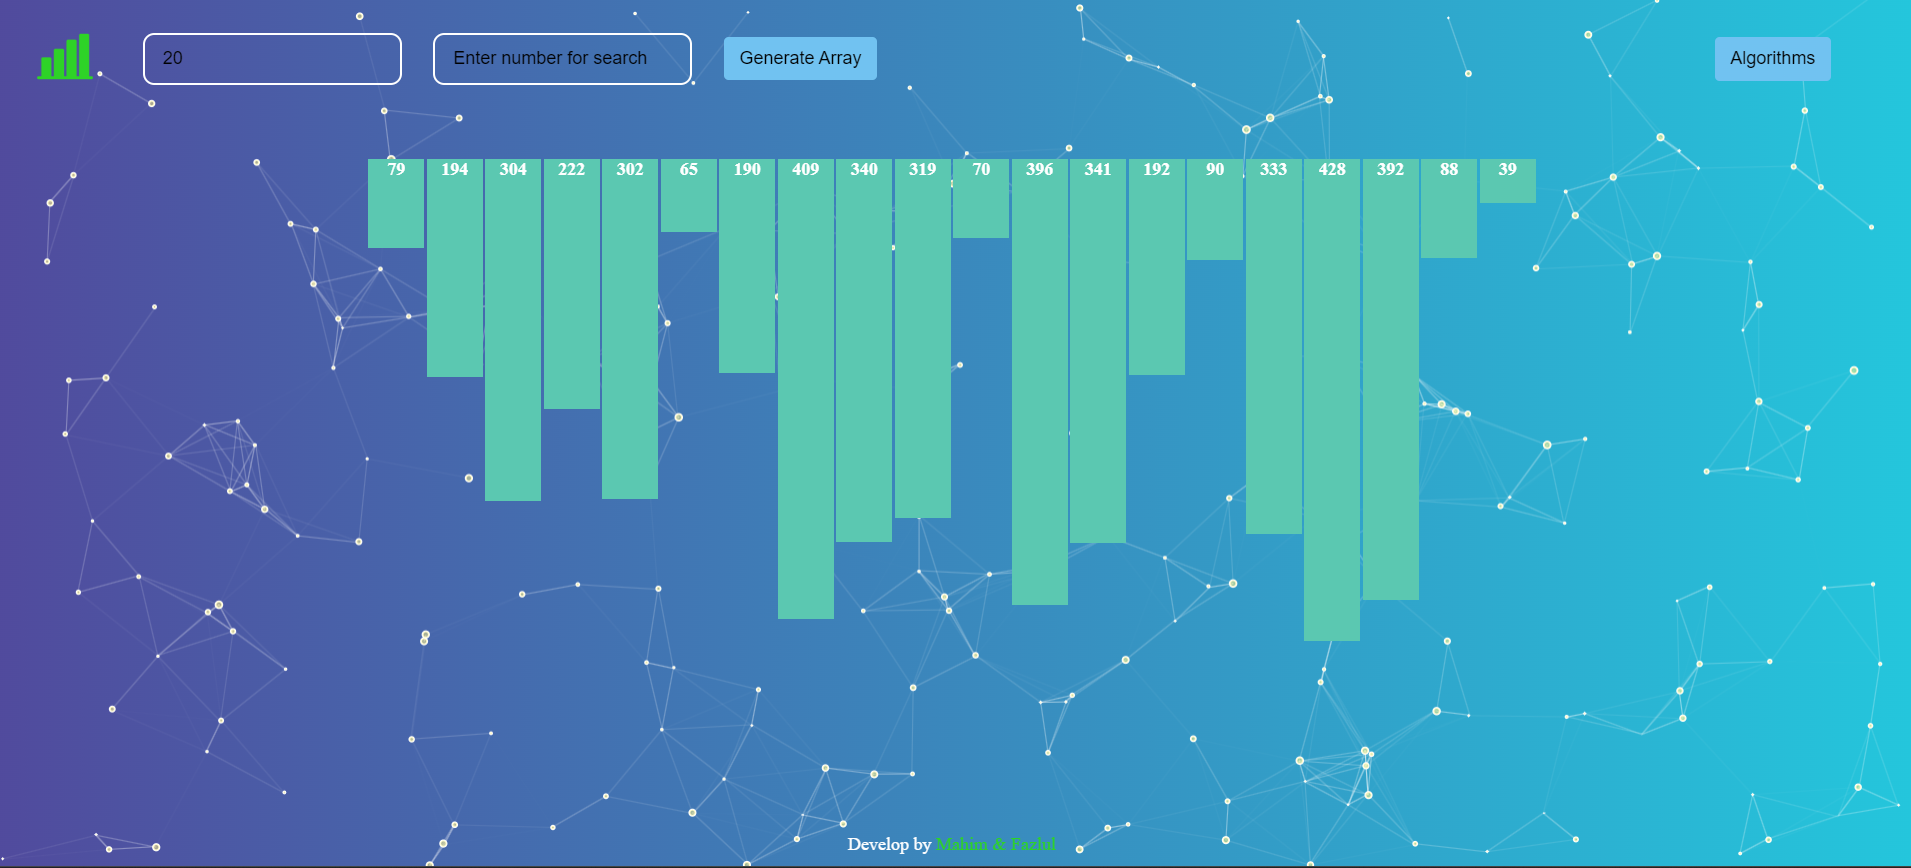
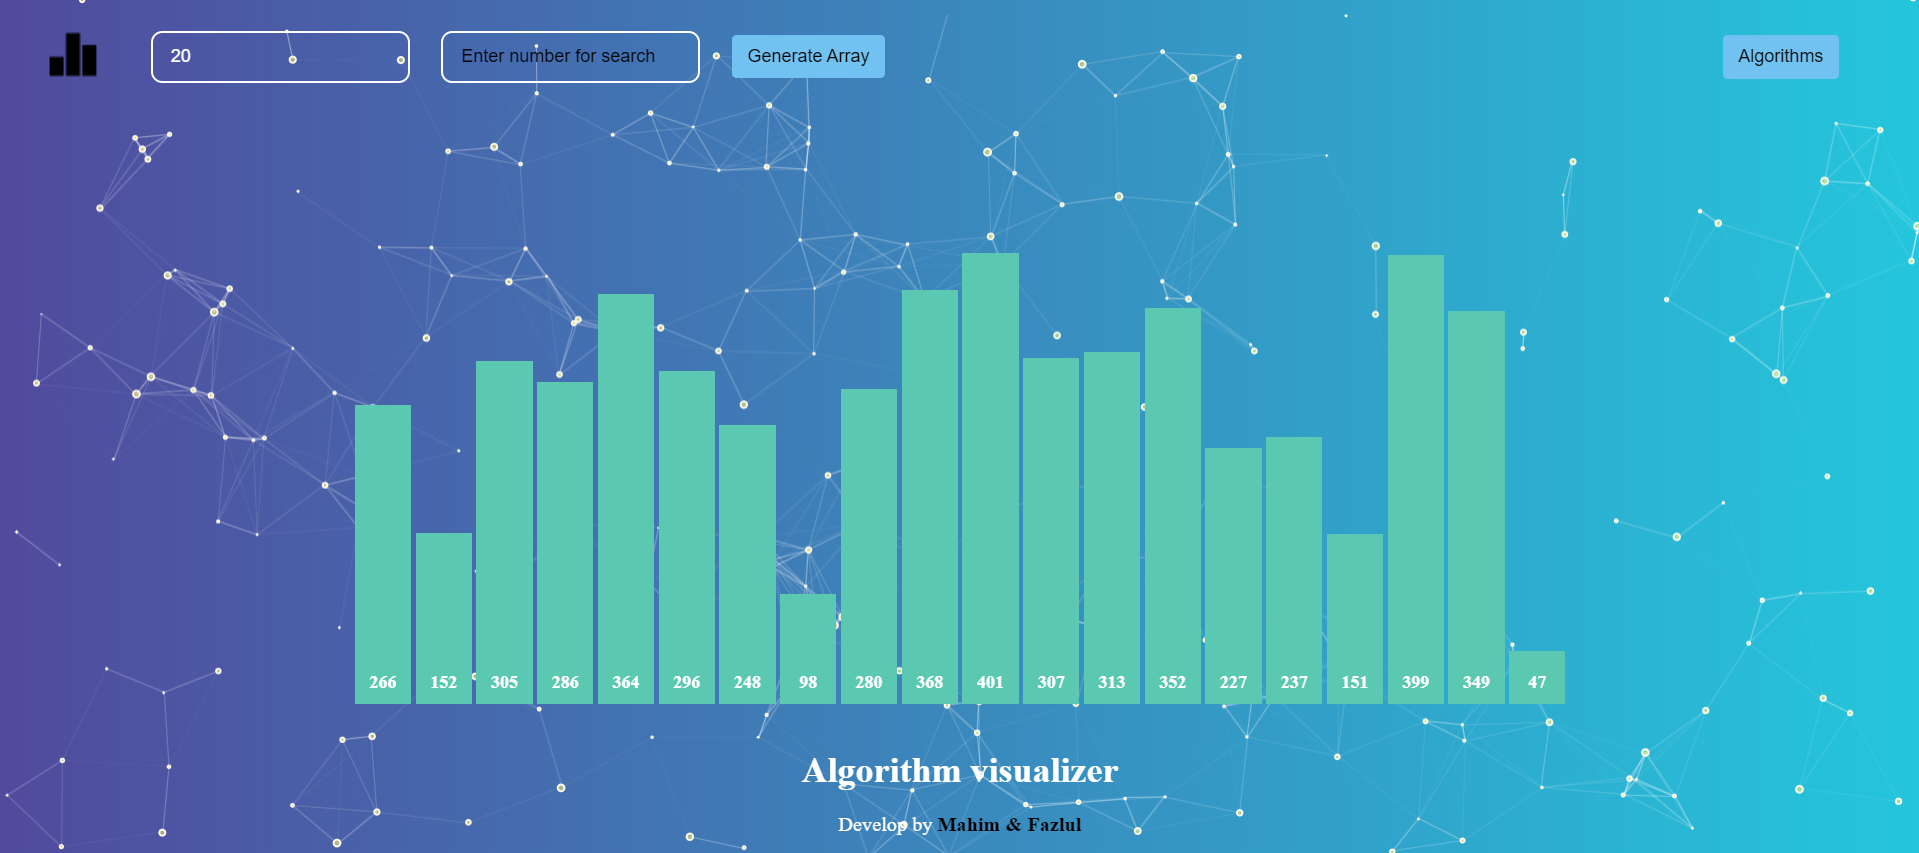
set databar upside mode

diff --git a/index.html b/index.html
@@ -4,7 +4,7 @@
     <meta charset="UTF-8">
     <meta name="viewport" content="width=device-width, initial-scale=1.0">
     <title>Algorithm visualizer</title>
-    <link rel="shortcut icon" href="./assets/img/bar-chart.png" type="image/x-icon">
+    <link rel="shortcut icon" href="./assets/img/bar-chart-2.png" type="image/x-icon">
     <link rel="stylesheet" href="https://cdnjs.cloudflare.com/ajax/libs/font-awesome/4.7.0/css/font-awesome.min.css">
     <link rel="stylesheet" href="css/style.css">
     <!-- Particles.js CDN -->
@@ -16,7 +16,7 @@
     <header class="header">
         <div style="display: flex; justify-content: space-between;align-items: center;">
             <div class="logo" style="margin-right: 2rem;">
-                <img width="50" height="50" src="./assets/img/bar-chart.png" alt="" srcset="">
+                <img width="50" height="50" src="./assets/img/bar-chart-2.png" alt="" srcset="">
             </div>
             <div>
                 <input type="number" id="dataset-size" class="ipt" placeholder="Dataset size (min 5)" onblur="handleDatasetSizeChange()"/>
@@ -48,9 +48,10 @@
         </div>
         <div id="toast-desc"></div>
     </div>
+    <h1 style="text-align: center;margin-bottom: 20px;">Algorithm visualizer</h1>
 
     <footer style="display: flex;justify-content: center;align-items: center;color: white;font-size: 18px;">
-        <p>Develop by <span style="color: #000;">Mahim & Fazlul</span></p>
+        <p>Develop by <span style="color: #000;font-weight: bold;">Mahim & Fazlul</span></p>
     </footer>
 
     <script type="module" src="js/main.js"></script>

diff --git a/css/style.css b/css/style.css
@@ -13,14 +13,39 @@ body{
     background: linear-gradient(to right, #514A9D, #24C6DC); /* W3C, IE 10+/ Edge, Firefox 16+, Chrome 26+, Opera 12+, Safari 7+ */
 
 }
+.line-container-parent{
+    display: flex;
+    justify-content:center;
+    width: 100%;
+    margin-bottom: 20px;
+}
+
+#lines-container {
+    display: flex;
+    align-items: flex-end; /* Aligns bars to the bottom */
+    justify-content: center; /* Centers the bars horizontally */
+    /* margin-top: 64px; */
+    min-height: 550px;
+    font-weight: bold;
+    margin-bottom: 20px;
+}
+
 .bar {
     width: 30px;
     display: inline-block;
-    margin: 0 1px;
+    margin: 0 2px;
+    padding-top: 10px;
     background-color: #5bc8b1;
     opacity: 1;
     transition: height 100ms ease-in;
+    height: 100px; /* Default height for the bars */
+    text-align: center;
+    display: flex;
+    align-items: flex-end; /* Aligns text to the bottom of the bar */
+    justify-content: center;
+
 }
+
 .particles-js{
     background: #5C258D;  /* fallback for old browsers */
     background: -webkit-linear-gradient(to right, #4389A2, #5C258D);  /* Chrome 10-25, Safari 5.1-6 */
@@ -53,25 +78,8 @@ input::placeholder{
     color: black;
 }
 
-.line-container-parent{
-    display: flex;
-    justify-content:center;
-    width: 100%;
-}
 
-/* .controls {
-    display: flex;
-    justify-content: flex-start;
-} */
 
-#lines-container {
-   
-    
-    margin-top: 64px;
-    min-height: 600px;
-    /* padding: 32px; */
-    font-weight: bold;
-}
 
 .dropdown {
     display: inline-block;

diff --git a/js/main.js b/js/main.js
@@ -60,6 +60,7 @@ function generateArray() {
         lineElement.innerText = randomNumber
         lineElement.style.textAlign = 'center'
         lineElement.style.width = '50px'
+        lineElement.style.paddingBottom = '10px'
         
         lineContainerElement.appendChild(lineElement)
     }
@@ -188,6 +189,8 @@ async function doLinearSearch() {
 
 //     enableInteractions()
 // }
+
+
 async function doBubbleSort() {
     console.log('okay');
 
@@ -276,7 +279,7 @@ async function doSelectionSort() {
             // Highlighting the bars being swapped
             lineContainerChildElements[animation.min].style.backgroundColor = SELECT_COLOR;
             lineContainerChildElements[animation.i].style.backgroundColor = SELECT_COLOR;
-            await sleep(300);
+            await sleep(500);
 
             // Swap the heights
             const tempHeight = lineContainerChildElements[animation.min].style.height;
